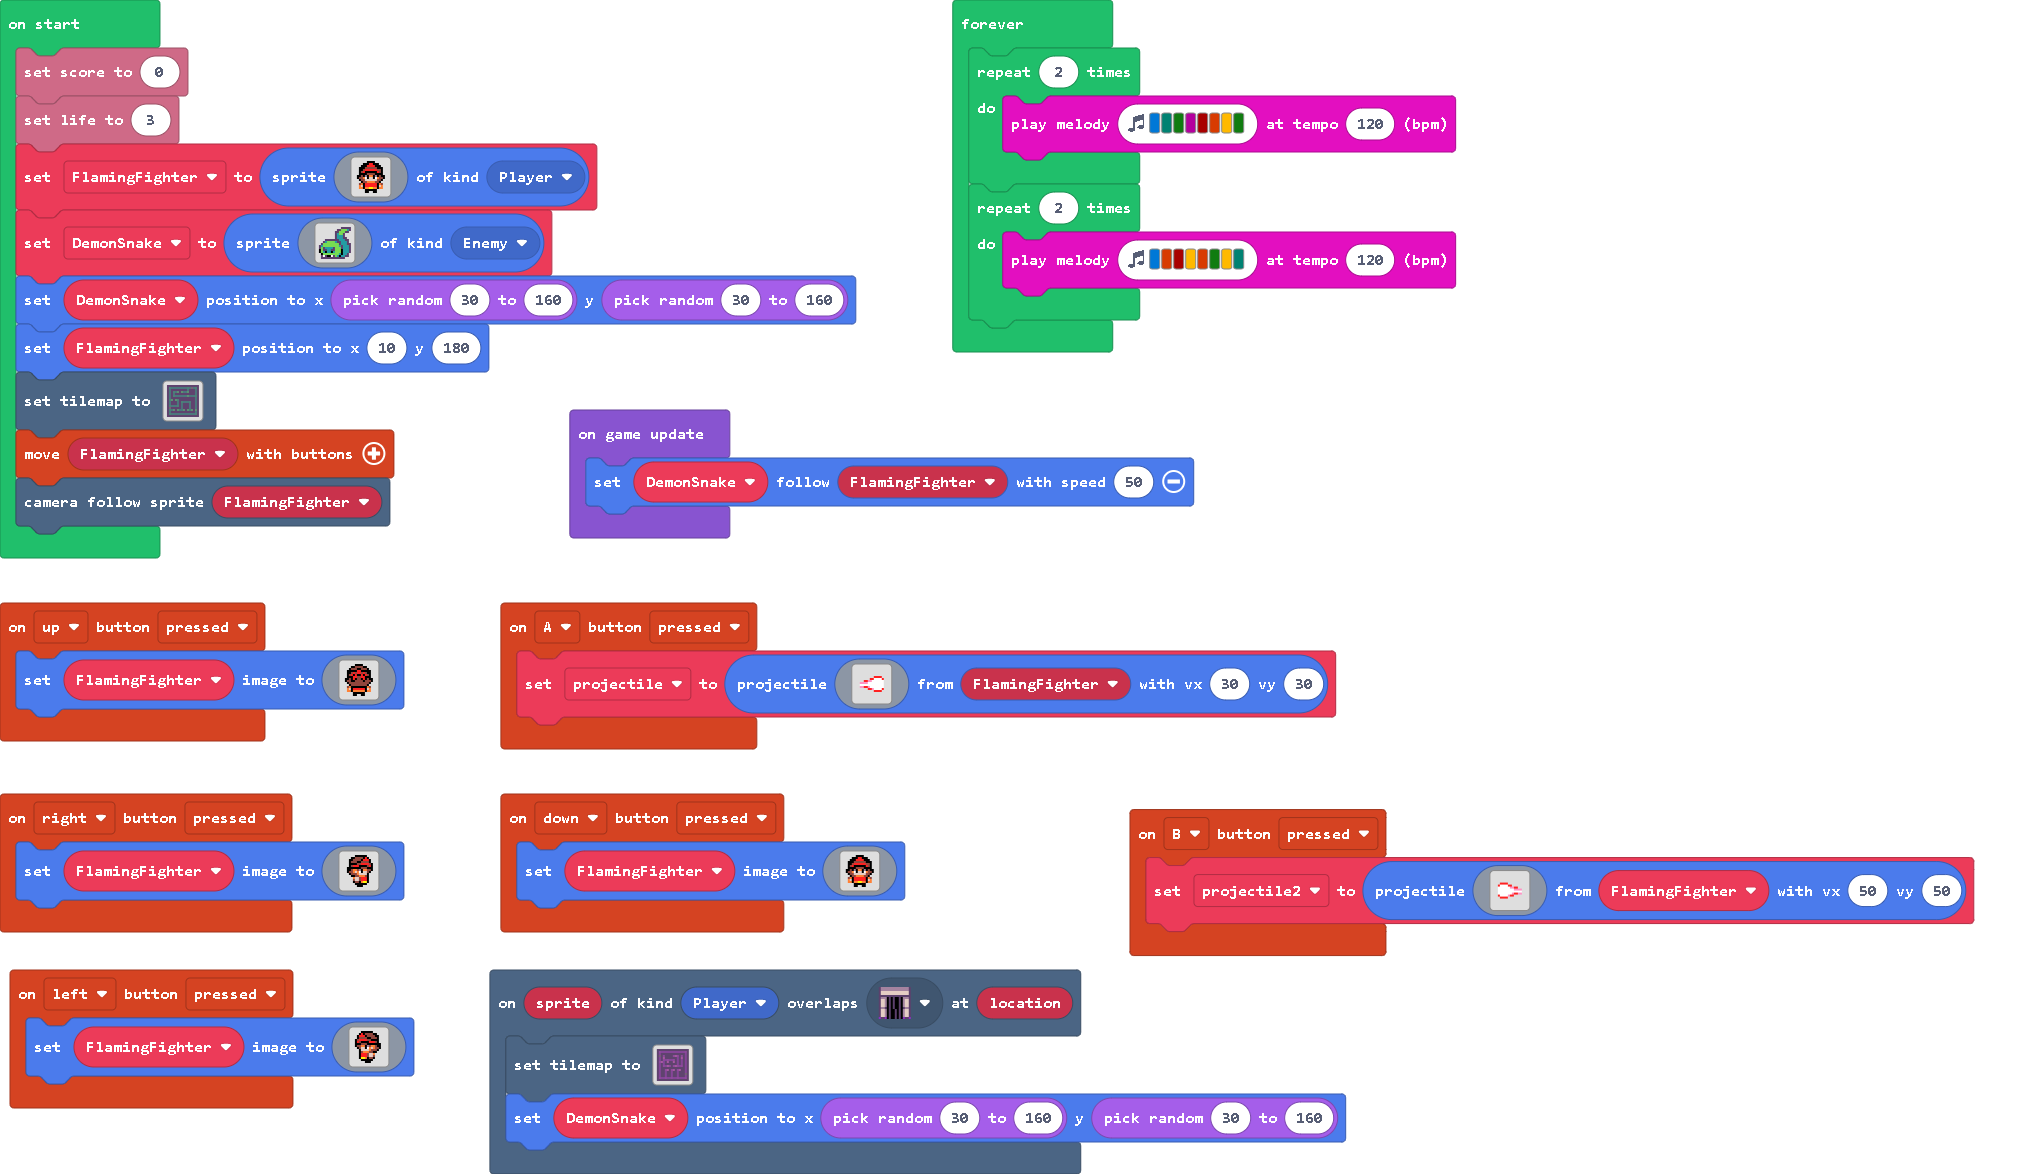
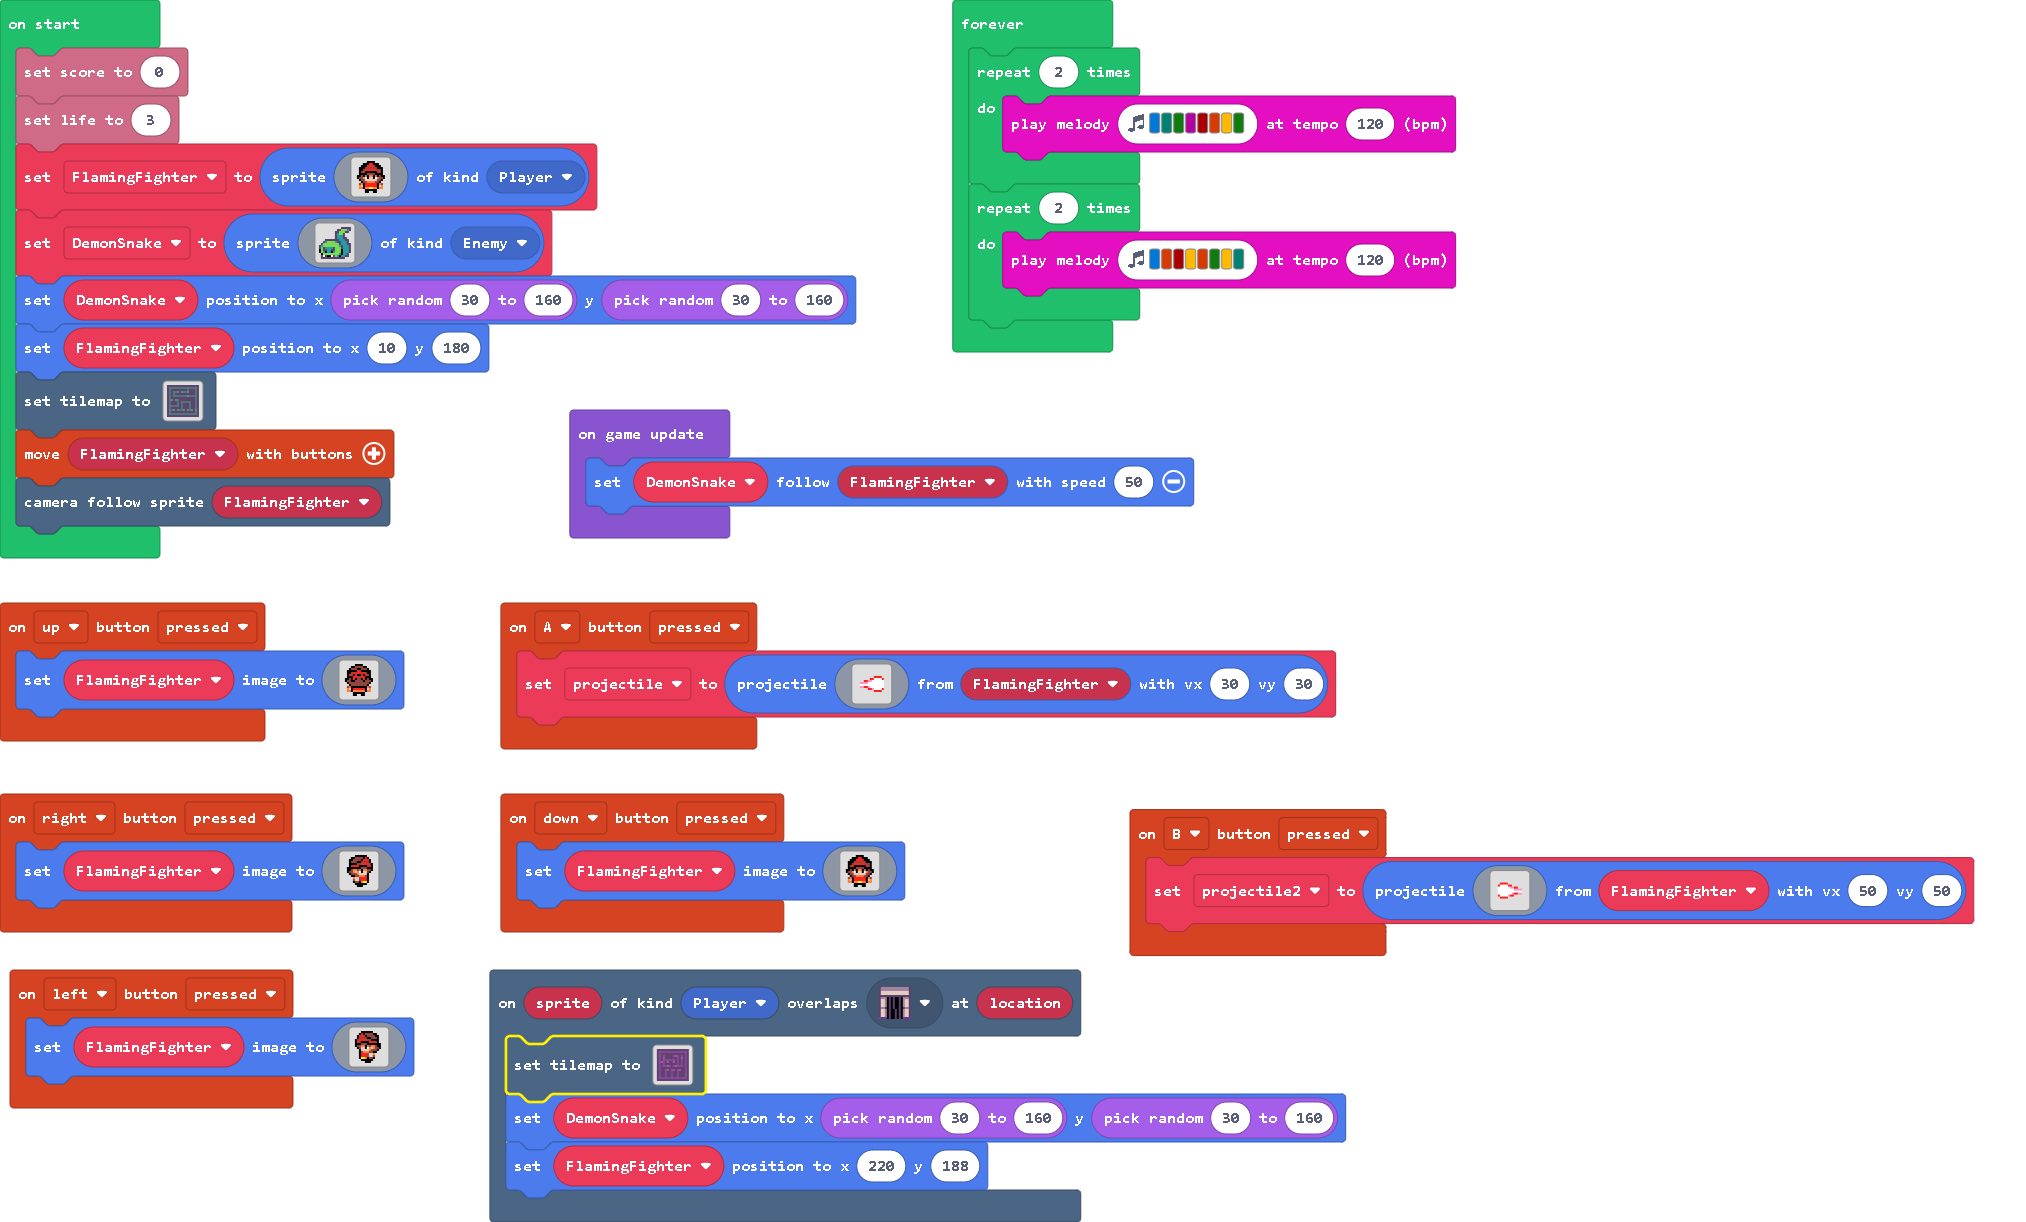
Update main.blocks, main.ts, tilemap.g.jres, tilemap.g.ts

diff --git a/tilemap.g.ts b/tilemap.g.ts
@@ -159,22 +159,22 @@ namespace myTiles {
 `, [myTiles.transparency16,sprites.dungeon.darkGroundNorthEast1,sprites.dungeon.greenOuterNorthWest,sprites.dungeon.greenOuterNorth0,sprites.dungeon.greenOuterNorthEast,sprites.dungeon.greenOuterWest0,sprites.dungeon.greenOuterSouth1,sprites.dungeon.greenOuterEast0,sprites.dungeon.greenOuterSouthEast,sprites.dungeon.greenOuterSouthWest,sprites.dungeon.doorClosedWest,sprites.dungeon.doorClosedNorth,sprites.dungeon.greenOuterWest1,sprites.dungeon.greenOuterNorth2,sprites.dungeon.greenOuterSouth2,sprites.dungeon.greenOuterEast2], TileScale.Sixteen);
             case "Level 2":
[1 lines of base64/hex data omitted]
-. . . . . . . . . . . . . . . . 
-. 2 2 2 2 2 2 2 2 2 2 2 2 2 2 . 
-. . . . . . . . . . . . . . 2 . 
-. . . 2 . . . . . . 2 . . . 2 . 
-. 2 . 2 . . . . . . 2 . 2 . 2 . 
-. 2 . 2 2 2 2 2 2 . 2 . 2 . 2 . 
-. 2 2 2 . . . . . . 2 . 2 . 2 . 
-. 2 . 2 . . . . . . 2 . 2 . 2 . 
-. 2 . 2 2 2 . . 2 2 2 2 2 . 2 . 
-. 2 . . . . . . . . . . . . 2 . 
-. 2 . . 2 . . 2 . . 2 2 . . 2 . 
-. 2 . . 2 . . 2 . . 2 . . . . . 
-. 2 . . 2 . . 2 . . 2 . . . . . 
-. 2 . . 2 . . 2 . . 2 . . . 2 . 
-. 2 2 2 2 2 2 2 2 2 2 2 2 2 2 . 
-. . . . . . . . . . . . . . . . 
+2 2 2 2 2 2 2 2 2 2 2 2 2 2 2 2 
+2 2 2 2 2 2 2 2 2 2 2 2 2 2 2 2 
+2 . . . . . . . . . . . . . 2 2 
+2 . . 2 . . . . . . 2 . . . 2 2 
+2 2 . 2 . . . . . . 2 . 2 . 2 2 
+2 2 . 2 2 2 2 2 2 . 2 . 2 . 2 2 
+2 2 2 2 . . . . . . 2 . 2 . 2 2 
+2 2 . 2 . . . . . . 2 . 2 . 2 2 
+2 2 . 2 2 2 . . 2 2 2 2 2 . 2 2 
+2 2 . . . . . . . . . . . . 2 2 
+2 2 . . 2 . . 2 . . 2 2 . . 2 2 
+2 2 . . 2 . . 2 . . 2 . . . 2 2 
+2 2 . . 2 . . 2 . . 2 . . . 2 2 
+2 2 . . 2 . . 2 . . 2 . . . 2 2 
+2 2 2 2 2 2 2 2 2 2 2 2 2 2 2 2 
+2 2 2 2 2 2 2 2 2 2 2 2 2 2 2 2 
 `, [myTiles.transparency16,sprites.dungeon.darkGroundNorthEast1,sprites.dungeon.purpleOuterNorth0,sprites.dungeon.purpleOuterEast1,sprites.dungeon.purpleOuterNorthEast,sprites.dungeon.purpleOuterNorthWest,sprites.dungeon.purpleOuterSouthEast,sprites.dungeon.purpleOuterWest0,sprites.dungeon.purpleOuterSouth1,sprites.dungeon.purpleOuterSouthWest,sprites.dungeon.doorClosedEast,sprites.dungeon.doorClosedWest,sprites.dungeon.purpleOuterSouth2,sprites.dungeon.purpleOuterNorth2,sprites.dungeon.purpleOuterEast2,sprites.dungeon.purpleOuterWest2], TileScale.Sixteen);
         }
         return null;

diff --git a/main.ts b/main.ts
@@ -13,6 +13,7 @@ controller.left.onEvent(ControllerButtonEvent.Pressed, function () {
 scene.onOverlapTile(SpriteKind.Player, sprites.dungeon.doorClosedNorth, function (sprite, location) {
     tiles.setTilemap(tilemap`Level 2`)
     DemonSnake.setPosition(randint(30, 160), randint(30, 160))
+    FlamingFighter.setPosition(220, 188)
 })
 controller.right.onEvent(ControllerButtonEvent.Pressed, function () {
     FlamingFighter.setImage(assets.image`Flaming Fighter - facing right`)
